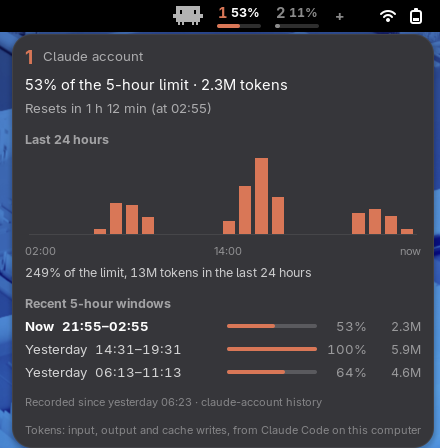
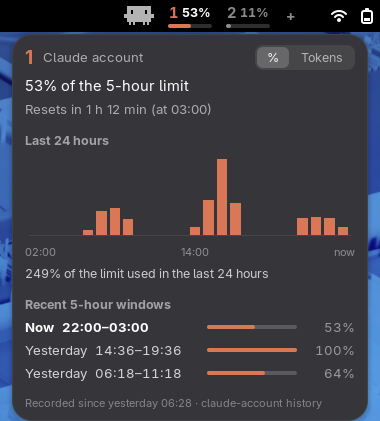
History panel: switch between % and tokens; hover shows the reset time only

diff --git a/extension/claude-account-switcher@aimanelahssini/extension.js b/extension/claude-account-switcher@aimanelahssini/extension.js
@@ -509,15 +509,39 @@ export default class ClaudeAccountExtension extends Extension {
         const head = new St.BoxLayout({style_class: 'claude-acct-history-head'});
         head.add_child(new St.Label({text: label(n), style_class: `claude-acct-history-name${active ? ' active' : ''}`}));
         head.add_child(new St.Label({text: [account.emailAddress, account.organizationName].filter(Boolean).join(' · ') ||
-            'Claude account', style_class: 'claude-acct-history-who', y_align: Clutter.ActorAlign.CENTER}));
+            'Claude account', style_class: 'claude-acct-history-who', y_align: Clutter.ActorAlign.CENTER,
+            x_expand: true}));
+        // % or tokens for everything below; the choice is remembered.
+        const inTokens = this._unit() === 'tokens';
+        const unit = new St.BoxLayout({style_class: 'claude-acct-unit', y_align: Clutter.ActorAlign.CENTER});
+        for (const [key, text] of [['pct', '%'], ['tokens', 'Tokens']]) {
+            const btn = new St.Button({label: text, style_class: 'claude-acct-unit-btn', can_focus: true,
+                checked: (key === 'tokens') === inTokens});
+            btn.connect('clicked', () => {
+                if ((key === 'tokens') === inTokens)
+                    return;
+                this._setUnit(key);
+                // Rebuild once this click is over; the button goes with it.
+                GLib.idle_add(GLib.PRIORITY_DEFAULT, () => {
+                    if (b._menu?.isOpen)
+                        this._fillHistory(b);
+                    return GLib.SOURCE_REMOVE;
+                });
+            });
+            unit.add_child(btn);
+        }
+        head.add_child(unit);
         box.add_child(head);
         const tokens = readTokens();
         const win = this._window(n);
         const pct = this._pct(n);
-        const used = typeof pct === 'number' ? `${Math.round(pct)}% of the 5-hour limit` : 'Usage unknown';
         const winTokens = win && !win.ended ? tokensBetween(tokens, n, win.end - 5 * HOUR, win.end) : 0;
-        box.add_child(new St.Label({text: winTokens ? `${used} · ${short(winTokens)} tokens` : used,
-            style_class: 'claude-acct-history-now'}));
+        let current;
+        if (inTokens)
+            current = winTokens ? `${short(winTokens)} tokens in this 5-hour window` : 'No tokens in this 5-hour window yet';
+        else
+            current = typeof pct === 'number' ? `${Math.round(pct)}% of the 5-hour limit` : 'Usage unknown';
+        box.add_child(new St.Label({text: current, style_class: 'claude-acct-history-now'}));
         box.add_child(new St.Label({text: this._resetText(n), style_class: 'claude-acct-history-reset'}));
 
         // Chart: what each of the last 24 hours used, hover a bar for its numbers
@@ -532,12 +556,14 @@ export default class ClaudeAccountExtension extends Extension {
         const total = Math.round(hours.reduce((a, b) => a + b, 0));
         const totalTokens = hourTokens.reduce((a, b) => a + b, 0);
         const summary = () => {
-            detail.text = !total && !totalTokens ? 'Nothing used in the last 24 hours'
-                : `${total}% of the limit${totalTokens ? `, ${short(totalTokens)} tokens` : ''} in the last 24 hours`;
+            if (inTokens)
+                detail.text = totalTokens ? `${short(totalTokens)} tokens in the last 24 hours` : 'No tokens in the last 24 hours';
+            else
+                detail.text = total ? `${total}% of the limit used in the last 24 hours` : 'Nothing used in the last 24 hours';
         };
         summary();
         chart._hovered = -1;
-        chart.connect('repaint', area => this._drawChart(area, hours));
+        chart.connect('repaint', area => inTokens ? this._drawChart(area, hourTokens, 1) : this._drawChart(area, hours, 20));
         chart.connect('motion-event', (area, event) => {
             const [x] = area.transform_stage_point(...event.get_coords()).slice(1);
             const i = Math.max(0, Math.min(23, Math.floor(x / area.width * 24)));
@@ -545,7 +571,7 @@ export default class ClaudeAccountExtension extends Extension {
                 area._hovered = i;
                 const from = GLib.DateTime.new_from_unix_local(firstHour + i * HOUR);
                 detail.text = `${from.format('%H:00')}–${from.add_hours(1).format('%H:00')}  ·  ` +
-                    `${Math.round(hours[i])}% used${hourTokens[i] ? `  ·  ${short(hourTokens[i])} tokens` : ''}`;
+                    (inTokens ? `${short(hourTokens[i])} tokens` : `${Math.round(hours[i])}% used`);
                 area.queue_repaint();
             }
             return Clutter.EVENT_PROPAGATE;
@@ -572,6 +598,7 @@ export default class ClaudeAccountExtension extends Extension {
             return {end, start: end.add_hours(-5), peak: w.peak, now: w.end - 5 * HOUR <= now && now < w.end,
                 tokens: tokensBetween(tokens, n, w.end - 5 * HOUR, w.end)};
         });
+        const mostTokens = Math.max(1, ...windows.map(w => w.tokens));
         if (!windows.length)
             box.add_child(new St.Label({text: 'Nothing recorded yet. Usage is saved every minute from now on.',
                 style_class: 'claude-acct-history-empty'}));
@@ -581,30 +608,31 @@ export default class ClaudeAccountExtension extends Extension {
                 style_class: 'claude-acct-window-when', x_expand: true, y_align: Clutter.ActorAlign.CENTER}));
             const track = new St.Widget({style_class: 'claude-acct-window-track', y_align: Clutter.ActorAlign.CENTER});
             const scale = St.ThemeContext.get_for_stage(global.stage).scale_factor;
+            // Tokens: bars against the window that used the most.
+            const share = inTokens ? w.tokens / mostTokens : Math.min(w.peak, 100) / 100;
             track.add_child(new St.Widget({style_class: `claude-acct-window-fill${active ? ' active' : ''}`,
-                width: Math.round(90 * scale * Math.min(w.peak, 100) / 100)}));
+                width: Math.round(90 * scale * share)}));
             row.add_child(track);
-            row.add_child(new St.Label({text: `${Math.round(w.peak)}%`, style_class: 'claude-acct-window-pct',
-                y_align: Clutter.ActorAlign.CENTER}));
-            row.add_child(new St.Label({text: w.tokens ? short(w.tokens) : '', style_class: 'claude-acct-window-tokens',
-                y_align: Clutter.ActorAlign.CENTER}));
+            row.add_child(new St.Label({text: inTokens ? (w.tokens ? short(w.tokens) : '–') : `${Math.round(w.peak)}%`,
+                style_class: 'claude-acct-window-pct', y_align: Clutter.ActorAlign.CENTER}));
             box.add_child(row);
         }
 
         const since = hist.length ? GLib.DateTime.new_from_unix_local(hist[0].t) : null;
         box.add_child(new St.Label({text: since ? `Recorded since ${dayName(since).replace(/^(Today|Yesterday)$/, d => d.toLowerCase())} ${since.format('%H:%M')}` +
             ' · claude-account history' : 'claude-account history', style_class: 'claude-acct-history-foot'}));
-        box.add_child(new St.Label({text: 'Tokens: input, output and cache writes, from Claude Code on this computer',
-            style_class: 'claude-acct-history-foot'}));
+        if (inTokens)
+            box.add_child(new St.Label({text: 'Input, output and cache writes, from Claude Code on this computer',
+                style_class: 'claude-acct-history-foot'}));
     }
 
-    // 24 orange bars, one per hour, scaled to the busiest hour (at least 20%).
-    _drawChart(area, hours) {
+    // 24 orange bars, one per hour, scaled to the busiest hour (at least `floor`).
+    _drawChart(area, hours, floor) {
         const cr = area.get_context();
         const [w, h] = area.get_surface_size();
         const scale = St.ThemeContext.get_for_stage(global.stage).scale_factor;
         const pad = 4 * scale;
-        const top = Math.max(20, ...hours);
+        const top = Math.max(floor, ...hours);
         const slot = (w - 2 * pad) / 24;
         const gap = Math.max(1, Math.round(slot * 0.25));
         cr.setSourceRGBA(1, 1, 1, 0.08);
@@ -660,10 +688,13 @@ export default class ClaudeAccountExtension extends Extension {
         return `Resets in ${left} (at ${reset.to_local().format('%H:%M')})`;
     }
 
-    _accountTip(slot) {
-        const win = this._window(slot);
-        const n = win && !win.ended ? tokensBetween(readTokens(), slot, win.end - 5 * HOUR, win.end) : 0;
-        return n ? `${this._resetText(slot)} · ${short(n)} tokens so far` : this._resetText(slot);
+    // The history panel's % or tokens, kept in a dotfile next to the accounts.
+    _unit() {
+        return this._readFile('.panel-unit').trim() === 'tokens' ? 'tokens' : 'pct';
+    }
+
+    _setUnit(unit) {
+        GLib.file_set_contents(GLib.build_filenamev([SLOTS, '.panel-unit']), `${unit}\n`);
     }
 
     _showTooltip(b) {
@@ -678,7 +709,7 @@ export default class ClaudeAccountExtension extends Extension {
             this._tooltip.text = 'Add a Claude account';
         else
             this._tooltip.text = this._signedIn.has(b._slot)
-                ? this._accountTip(b._slot) : 'Not signed in. Click to sign in.';
+                ? this._resetText(b._slot) : 'Not signed in. Click to sign in.';
         this._tooltip.show();
         const [x, y] = b.get_transformed_position();
         const [w, h] = b.get_transformed_size();

diff --git a/tests/shell/claude-test@tests/extension.js b/tests/shell/claude-test@tests/extension.js
@@ -162,13 +162,14 @@ async function run() {
     ext._toggleHistory(b1);
     await sleep(700);
     const all = a => [a, ...a.get_children().flatMap(all)];
-    const rows = all(b1._menu.box).filter(c => c.has_style_class_name?.('claude-acct-window'));
-    check('history: three windows', rows.length === 3, rows.map(r => r.get_children().map(c => c.text).filter(Boolean).join(' ')).join(' | '));
+    const find = cls => all(b1._menu.box).filter(c => c.has_style_class_name?.(cls));
+    const rowTexts = () => find('claude-acct-window').map(r => r.get_children().map(c => c.text).filter(Boolean).join(' '));
+    let rows = find('claude-acct-window');
+    check('history: three windows', rows.length === 3, rowTexts().join(' | '));
     check('history: current window says Now', rows[0].get_children()[0].text.startsWith('Now') && !rows[1].get_children()[0].text.startsWith('Now'));
-    check('history: tokens per window', rows.every(r => /^\d/.test(r.get_children().at(-1).text)));
-    const chart = all(b1._menu.box).find(c => c.has_style_class_name?.('claude-acct-chart'));
-    const detail = all(b1._menu.box).find(c => c.has_style_class_name?.('claude-acct-chart-detail'));
-    check('history: chart', !!chart && /tokens in the last 24 hours$/.test(detail?.text), detail?.text);
+    check('history: % by default', rows.every(r => /^\d+%$/.test(r.get_children().at(-1).text)));
+    let chart = find('claude-acct-chart')[0], detail = find('claude-acct-chart-detail')[0];
+    check('history: chart in %', !!chart && /% of the limit used in the last 24 hours$/.test(detail?.text), detail?.text);
     await shot('history', ext, false, b1._menu.actor);
     // Hover a bar: the line under the chart shows that hour.
     const [cx, cy] = chart.get_transformed_position();
@@ -176,14 +177,38 @@ async function run() {
         .create_virtual_device(Clutter.InputDeviceType.POINTER_DEVICE);
     ev.notify_absolute_motion(GLib.get_monotonic_time(), cx + chart.width * 0.9, cy + chart.height / 2);
     await sleep(400);
-    check('history: hover shows an hour', /^\d\d:00–\d\d:00/.test(detail.text), detail.text);
+    check('history: hover shows an hour', /^\d\d:00–\d\d:00  ·  \d+% used$/.test(detail.text), detail.text);
+    ev.notify_absolute_motion(GLib.get_monotonic_time(), 5, 600);
+    await sleep(300);
+
+    // Switch to tokens: everything below the header follows, and the choice is remembered.
+    const tokBtn = find('claude-acct-unit-btn').find(btn => btn.label === 'Tokens');
+    tokBtn.emit('clicked', 1);
+    await sleep(600);
+    check('tokens: menu still open', b1._menu.isOpen);
+    check('tokens: remembered', new TextDecoder().decode(GLib.file_get_contents(`${accounts}/.panel-unit`)[1]).trim() === 'tokens');
+    rows = find('claude-acct-window');
+    check('tokens: per window', rows.length === 3 && rows.every(r => /^[\d.]+[kM]$/.test(r.get_children().at(-1).text)), rowTexts().join(' | '));
+    check('tokens: switch shows it', find('claude-acct-unit-btn').find(btn => btn.label === 'Tokens').checked);
+    detail = find('claude-acct-chart-detail')[0];
+    check('tokens: chart', /^[\d.]+[kM] tokens in the last 24 hours$/.test(detail.text), detail.text);
+    check('tokens: header', /tokens in this 5-hour window$/.test(find('claude-acct-history-now')[0].text), find('claude-acct-history-now')[0].text);
+    await shot('history-tokens', ext, false, b1._menu.actor);
+    b1._menu.close();
+    await sleep(400);
+    ext._toggleHistory(b1);
+    await sleep(600);
+    check('tokens: still tokens next time', find('claude-acct-unit-btn').find(btn => btn.label === 'Tokens').checked);
+    find('claude-acct-unit-btn').find(btn => btn.label === '%').emit('clicked', 1);
+    await sleep(500);
+    check('tokens: back to %', /^\d+%$/.test(find('claude-acct-window')[0].get_children().at(-1).text));
     b1._menu.close();
     await sleep(400);
 
-    // Tooltip: reset time and this window's tokens.
+    // Tooltip: only the reset time.
     b1.hover = true;
     await sleep(300);
-    check('tooltip: tokens', /Resets in .* · [\d.]+[kM] tokens so far$/.test(ext._tooltip.text), ext._tooltip.text);
+    check('tooltip: reset time only', /^Resets in [\d h]+min \(at \d\d:\d\d\)$/.test(ext._tooltip.text), ext._tooltip.text);
     b1.hover = false;
 
     // A window that has ended: 0%, and says so, before the next reading comes in.

diff --git a/extension/claude-account-switcher@aimanelahssini/stylesheet.css b/extension/claude-account-switcher@aimanelahssini/stylesheet.css
@@ -43,7 +43,7 @@
 .claude-acct-window-track { width: 90px; height: 4px; border-radius: 2px; background-color: rgba(255,255,255,0.18); }
 .claude-acct-window-fill { height: 4px; border-radius: 2px; background-color: rgba(255,255,255,0.45); }
 .claude-acct-window-fill.active { background-color: #d97757; }
-.claude-acct-window-pct { width: 40px; text-align: right; font-size: 0.9em; font-feature-settings: "tnum"; }
+.claude-acct-window-pct { width: 48px; text-align: right; font-size: 0.9em; font-feature-settings: "tnum"; }
 .claude-acct-history-empty { color: rgba(255,255,255,0.5); font-size: 0.9em; }
 .claude-acct-history-foot { margin-top: 8px; font-size: 0.75em; color: rgba(255,255,255,0.4); }
 
@@ -63,4 +63,9 @@
 /* Tokens, the running window, the reset line */
 .claude-acct-history-reset { color: rgba(255,255,255,0.6); font-size: 0.9em; }
 .claude-acct-window.now .claude-acct-window-when { color: #fff; font-weight: bold; }
-.claude-acct-window-tokens { width: 44px; text-align: right; font-size: 0.85em; color: rgba(255,255,255,0.5); font-feature-settings: "tnum"; }
+
+/* % or tokens switch in the history panel */
+.claude-acct-unit { background-color: rgba(255,255,255,0.08); border-radius: 8px; padding: 2px; spacing: 2px; }
+.claude-acct-unit-btn { padding: 2px 10px; border-radius: 6px; font-size: 0.85em; color: rgba(255,255,255,0.6); }
+.claude-acct-unit-btn:hover { color: #fff; background-color: rgba(255,255,255,0.08); }
+.claude-acct-unit-btn:checked { color: #fff; background-color: rgba(255,255,255,0.18); }

diff --git a/README.md b/README.md
@@ -18,8 +18,9 @@ without restarting, and see how much of each account's 5-hour limit is used.</p>
   with its full history. No `/login`, no restart.
 - **Live usage.** Each account shows its 5-hour usage in percent, refreshed every minute.
   The selected account has an orange bar, the other a grey one.
-- **Tokens too.** Hover an account for when its limit resets and how many tokens this 5-hour
-  window has used so far; the history panel shows tokens per window and per hour.
+- **Reset time.** Hover an account to see when its limit resets.
+- **% or tokens.** The history panel switches between both with one click: the 5-hour
+  window, each hour of the last 24 and each recent window, in percent of the limit or in tokens.
 - **Automatic switch at 100%.** When the account you're on reaches its 5-hour limit, it
   switches to the signed-in account with the most room left and tells you in a notification.
 - **Usage history.** Click the account you're on (or right-click any account) for how much
@@ -34,7 +35,7 @@ without restarting, and see how much of each account's 5-hour limit is used.</p>
   Claude is done, then does what closing the lid normally does.
 - **A CLI too.** Everything works from the terminal with `claude-account`.
 
-<p align="center"><img src="docs/history.png" width="446" alt="History panel under the active account: current usage and reset time, orange hourly bars for the last 24 hours, and recent 5-hour windows with their peak usage and tokens"></p>
+<p align="center"><img src="docs/history.png" width="380" alt="History panel in percent: 53% of the 5-hour limit, orange hourly bars for the last 24 hours, and recent 5-hour windows with their peak"> <img src="docs/history-tokens.png" width="380" alt="The same panel switched to tokens: 2.3M tokens in this 5-hour window, hourly bars in tokens, and tokens per window"></p>
 
 ## Options
 
@@ -99,7 +100,8 @@ window running: the next one starts with your next message, so the last window l
 have ended a while ago. The panel marks the window that's running as **Now**, and
 an account whose window has ended shows 0% and *Limit reset at …*.
 
-Anthropic only reports the percentage. Tokens are counted from Claude Code's own
+Anthropic only reports the percentage; switch the history panel to **Tokens** to see those
+instead (it remembers your choice). Tokens are counted from Claude Code's own
 transcripts on this computer (`~/.claude/projects`): input, output and cache writes, without
 cache reads, which are cheap and would dwarf everything else. Each message counts toward the
 account that was active when it was sent. Claude Code on other computers isn't included, and
